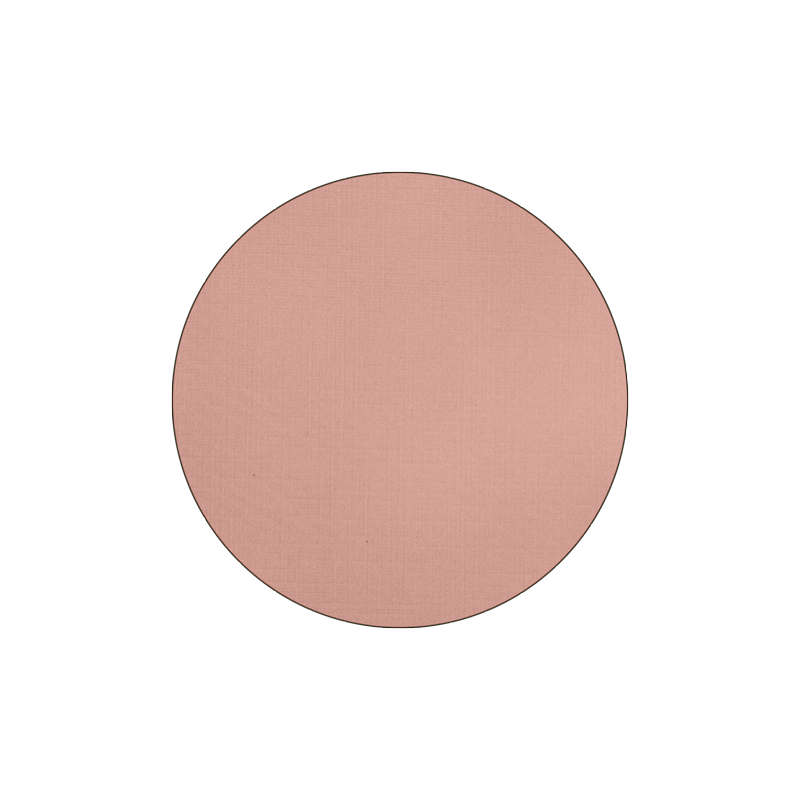
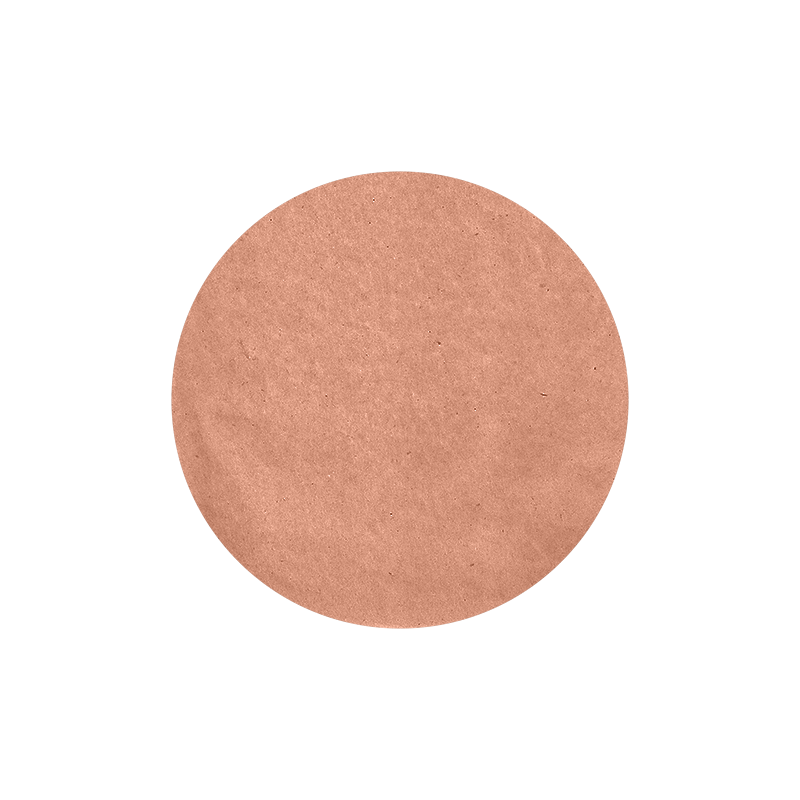
adf

Changed region(s): [[0.1875, 0.1875, 0.8125, 0.8125]]

diff --git a/_site/style.css b/_site/style.css
@@ -134,7 +134,7 @@ a:hover{
 /** PAGE ONE **/
 
 .pageone .background{
-  background-image: url("michealle-site/circle-bg4.png");
+  background-image: url("michealle-site/circle-bg.png");
   background-attachment: fixed;
   z-index:0;    
   
@@ -153,7 +153,7 @@ a:hover{
 
 /** PAGE TWO **/
 .pagetwo .background{
-  background-image: url("michealle-site/circle-bg.png");
+  background-image: url("michealle-site/circle-bg4.png");
   background-attachment: fixed;
   z-index:1;
 }
@@ -163,7 +163,7 @@ a:hover{
   z-index:2;
 }
 .pagetwo .frame{
-  background-image: url("michealle-site/border1.png");
+  background-image: url("michealle-site/border2.png");
   background-attachment: fixed;
   z-index:3;
 }
@@ -182,6 +182,10 @@ a:hover{
 @media only screen and (orientation: portrait){
   .pagetwo .decoration {
   background-size: 100vw;
+  }
+
+  .pagetwo .sandwich{
+  background-size: 60%;
   }
 }
 .decoration.bottom {
@@ -241,7 +245,7 @@ a:hover{
   z-index:100;
 }
 .pagefour .background{
-  background-image: url("michealle-site/circle-bg4.png");
+  background-image: url("michealle-site/circle-bg2.png");
   z-index:1;
   background-attachment: fixed;
 }

diff --git a/style.css b/style.css
@@ -134,7 +134,7 @@ a:hover{
 /** PAGE ONE **/
 
 .pageone .background{
-  background-image: url("michealle-site/circle-bg4.png");
+  background-image: url("michealle-site/circle-bg.png");
   background-attachment: fixed;
   z-index:0;    
   
@@ -153,7 +153,7 @@ a:hover{
 
 /** PAGE TWO **/
 .pagetwo .background{
-  background-image: url("michealle-site/circle-bg.png");
+  background-image: url("michealle-site/circle-bg4.png");
   background-attachment: fixed;
   z-index:1;
 }
@@ -163,7 +163,7 @@ a:hover{
   z-index:2;
 }
 .pagetwo .frame{
-  background-image: url("michealle-site/border1.png");
+  background-image: url("michealle-site/border2.png");
   background-attachment: fixed;
   z-index:3;
 }
@@ -182,6 +182,10 @@ a:hover{
 @media only screen and (orientation: portrait){
   .pagetwo .decoration {
   background-size: 100vw;
+  }
+
+  .pagetwo .sandwich{
+  background-size: 60%;
   }
 }
 .decoration.bottom {
@@ -241,7 +245,7 @@ a:hover{
   z-index:100;
 }
 .pagefour .background{
-  background-image: url("michealle-site/circle-bg4.png");
+  background-image: url("michealle-site/circle-bg2.png");
   z-index:1;
   background-attachment: fixed;
 }
